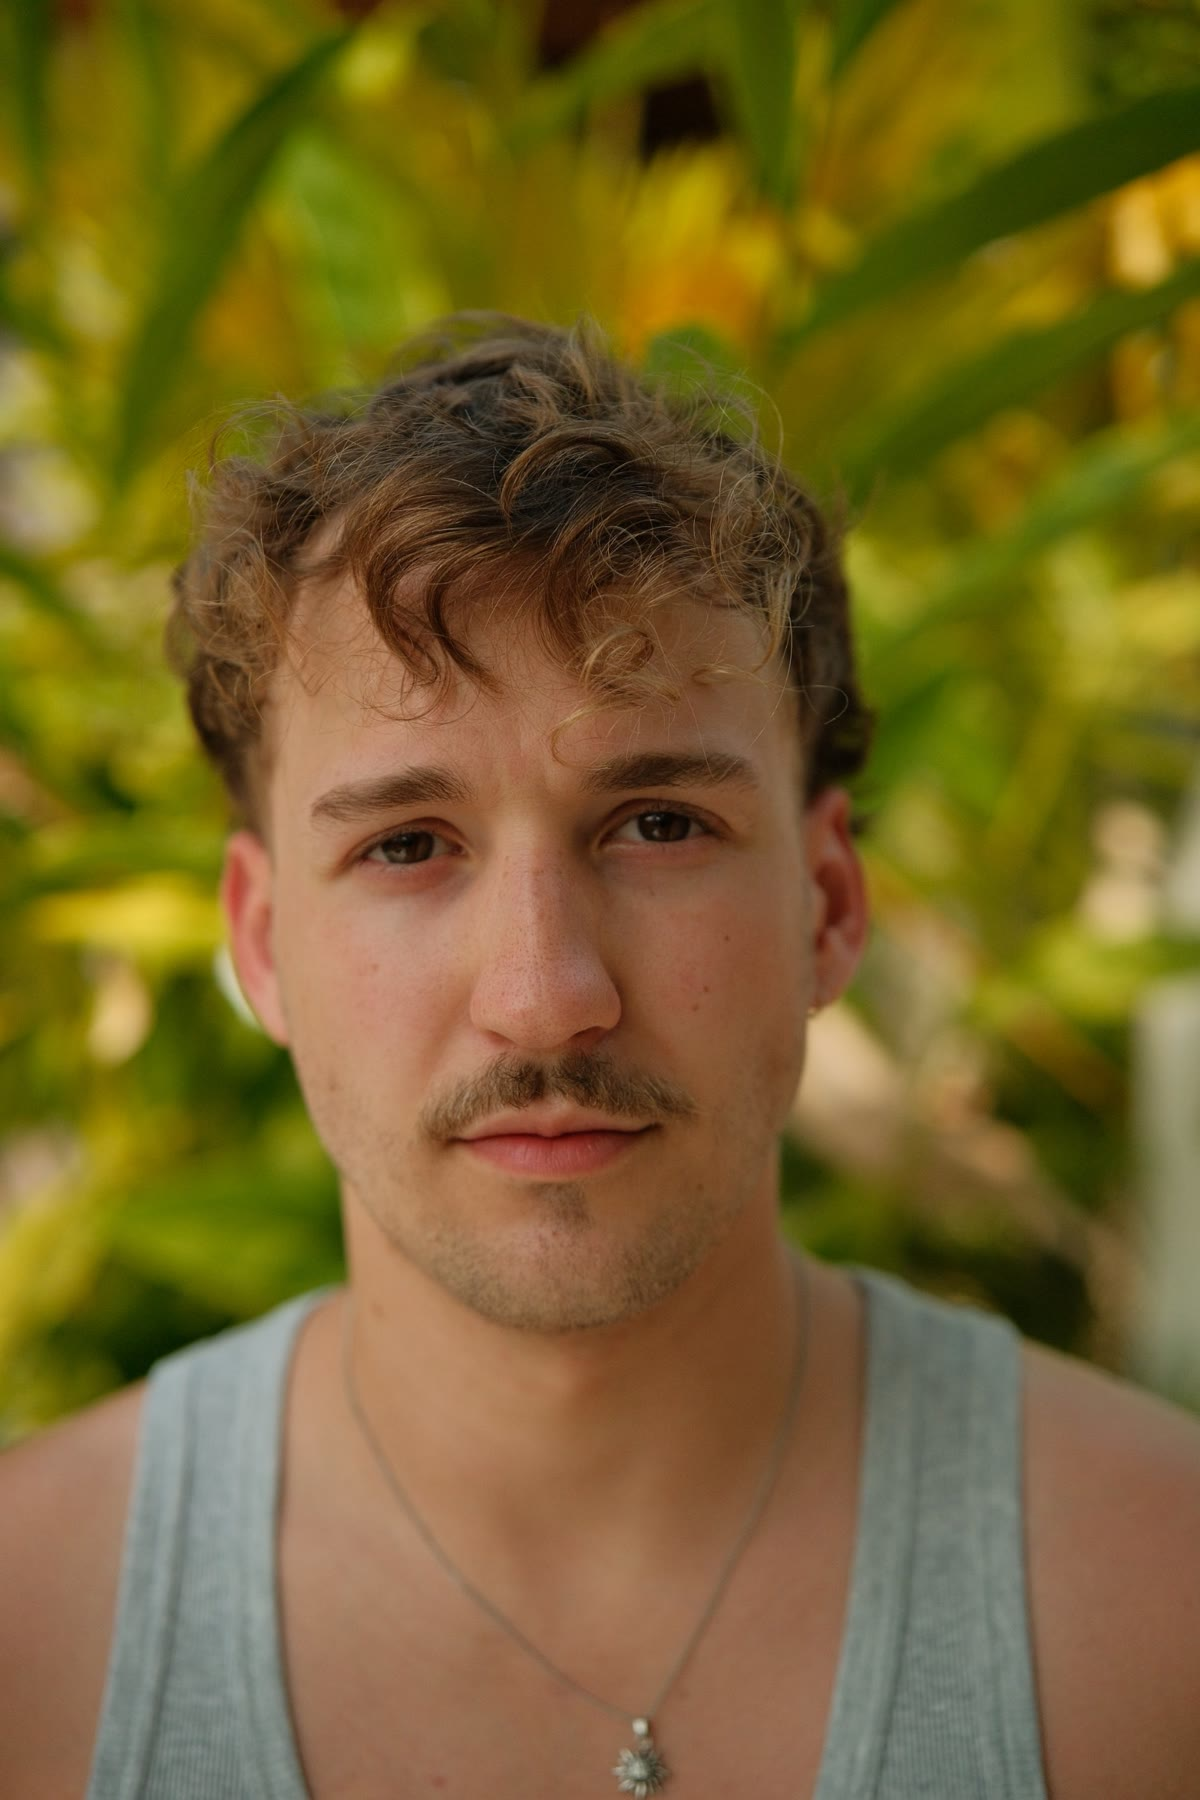
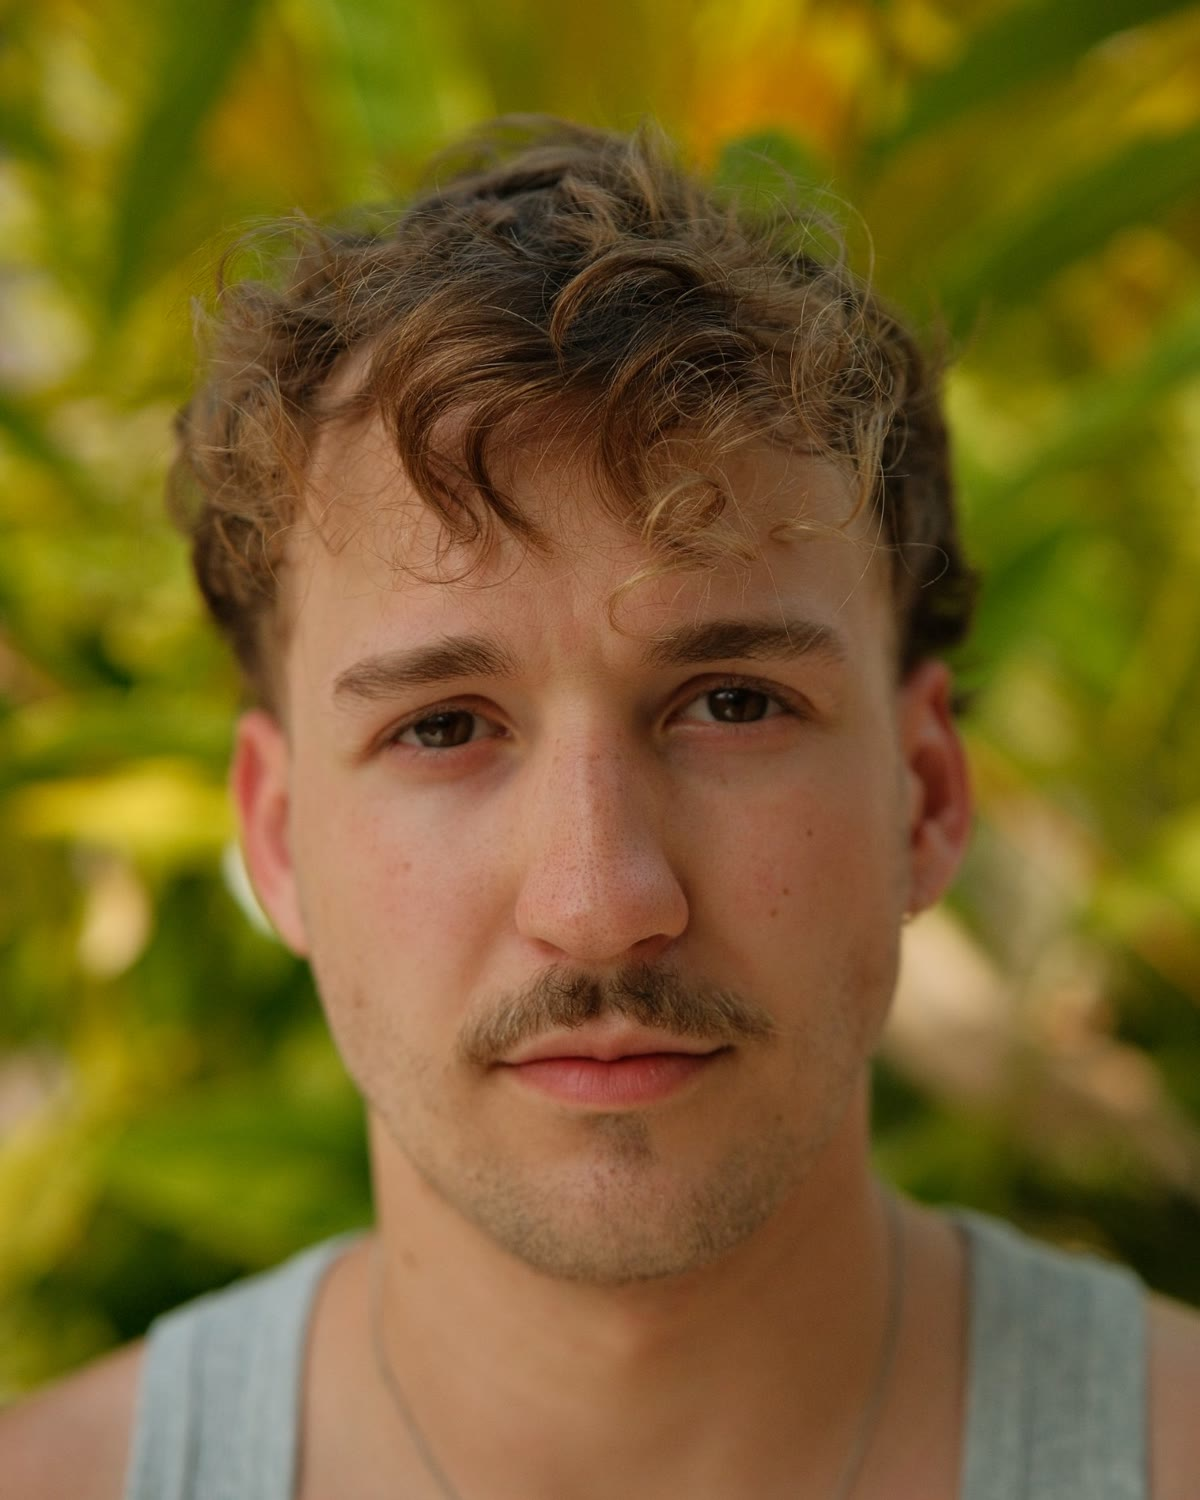
Wyśrodkowane zdjęcia i napisy w kafelkach pod zdjęciem
Claude-Session: https://claude.ai/code/session_01PYHVcbADnh8aXobNhcPciq

diff --git a/style.css b/style.css
@@ -65,7 +65,7 @@ main{padding-top:58px}
 .hero .lead{font-size:1.1rem;color:var(--muted);margin-top:1.6rem;max-width:30rem}
 .ctas{display:flex;gap:.8rem;flex-wrap:wrap;margin-top:2.4rem}
 .portrait{aspect-ratio:4/5;overflow:hidden;background:var(--surface)}
-.portrait img{width:100%;height:100%;object-fit:cover;object-position:50% 30%}
+.portrait img{width:100%;height:100%;object-fit:cover;object-position:50% 50%}
 .fade-up{animation:fadeUp 1s ease both}
 @keyframes fadeUp{from{opacity:0;transform:translateY(24px)}to{opacity:1;transform:none}}
 
@@ -73,14 +73,15 @@ main{padding-top:58px}
 .doors .inner{padding-block:1rem 5rem}
 .doors h2{font-size:clamp(1.7rem,3vw,2.4rem);margin:.6rem 0 1.6rem}
 .door-grid{display:grid;grid-template-columns:1fr 1fr;gap:1.2rem}
-.door{position:relative;min-height:460px;overflow:hidden;background:var(--deep);color:#fff;text-decoration:none;display:flex;flex-direction:column;justify-content:flex-end}
-.door video,.door img{position:absolute;inset:0;width:100%;height:100%;object-fit:cover;transition:transform .8s ease}
-.door:hover video,.door:hover img{transform:scale(1.04)}
-.door::after{content:"";position:absolute;inset:0;background:linear-gradient(180deg,rgba(0,0,0,0) 30%,rgba(0,0,0,.74) 100%)}
-.door-body{position:relative;z-index:1;padding:2rem;display:grid;gap:.7rem}
+.door{position:relative;overflow:hidden;background:var(--deep);color:#fff;text-decoration:none;display:flex;flex-direction:column}
+.door-media{position:relative;aspect-ratio:1/1;overflow:hidden;background:#000}
+.door-media img,.door-media video{position:absolute;inset:0;width:100%;height:100%;object-fit:cover;transition:transform .8s ease}
+.door-media video{object-position:50% 28%}
+.door:hover .door-media img,.door:hover .door-media video{transform:scale(1.04)}
+.door-body{padding:1.8rem 2rem 2rem;display:grid;gap:.6rem;flex:1;align-content:start}
 .door .eyebrow{color:#E9D9B4}
 .door h3{font-size:clamp(2rem,3.4vw,2.8rem);color:#fff}
-.door p{color:rgba(255,255,255,.8);max-width:28rem;font-size:.98rem}
+.door p{color:rgba(255,255,255,.72);max-width:28rem;font-size:.98rem}
 .door .go{margin-top:.6rem;font-size:.74rem;font-weight:500;letter-spacing:.14em;text-transform:uppercase}
 .door:hover .go{color:#E9D9B4}
 
@@ -207,9 +208,8 @@ footer .logo{color:rgba(237,235,224,.55)}
   .hero .inner,.about .inner,.project-card,.contact .inner{grid-template-columns:1fr;gap:2.4rem}
   .hero .inner{padding-block:2rem 3rem}
   .portrait{aspect-ratio:4/5;order:-1}
-  .portrait img{object-position:50% 38%}
   .door-grid,.offer-grid{grid-template-columns:1fr}
-  .door{min-height:380px}
+  .door-body{padding:1.4rem 1.4rem 1.6rem}
   .phones{gap:.7rem}
   .phones .phone-frame{border-radius:24px;padding:3px}
   .phones .phone-screen{border-radius:21px}

diff --git a/index.html b/index.html
@@ -45,7 +45,7 @@
   <h2 data-pl="Wybierz, czego szukasz" data-en="Choose what you need">Wybierz, czego szukasz</h2>
   <div class="door-grid">
     <a class="door" href="ugc.html">
-      <img src="szymon-2.jpg" alt="" loading="lazy" style="object-position:50% 25%"/>
+      <div class="door-media"><img src="szymon-2.jpg" alt="" loading="lazy"/></div>
       <div class="door-body">
         <p class="eyebrow" data-pl="Ja w kadrze" data-en="Me on camera">Ja w kadrze</p>
         <h3>UGC</h3>
@@ -54,7 +54,7 @@
       </div>
     </a>
     <a class="door" href="produkcja.html">
-      <video src="studioelementy/se-fryzjerzy.mp4" poster="studioelementy/se-fryzjerzy.jpg" muted loop playsinline preload="metadata" data-autoplay></video>
+      <div class="door-media"><video src="studioelementy/se-fryzjerzy.mp4" poster="studioelementy/se-fryzjerzy.jpg" muted loop playsinline preload="metadata" data-autoplay></video></div>
       <div class="door-body">
         <p class="eyebrow" data-pl="Ja za kamerą" data-en="Me behind the camera">Ja za kamerą</p>
         <h3 data-pl="Produkcja wideo" data-en="Video production">Produkcja wideo</h3>
